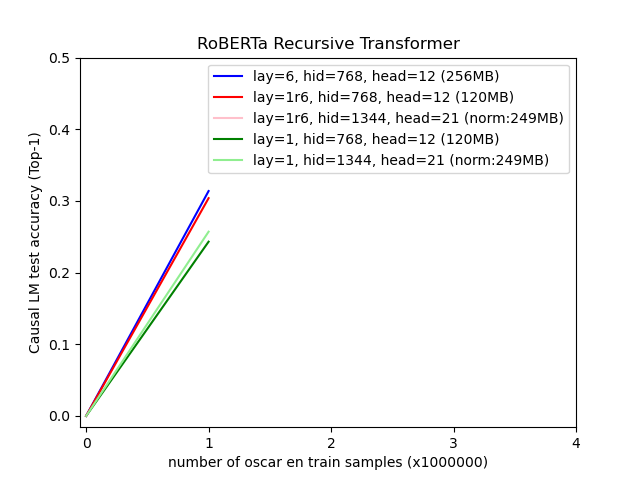
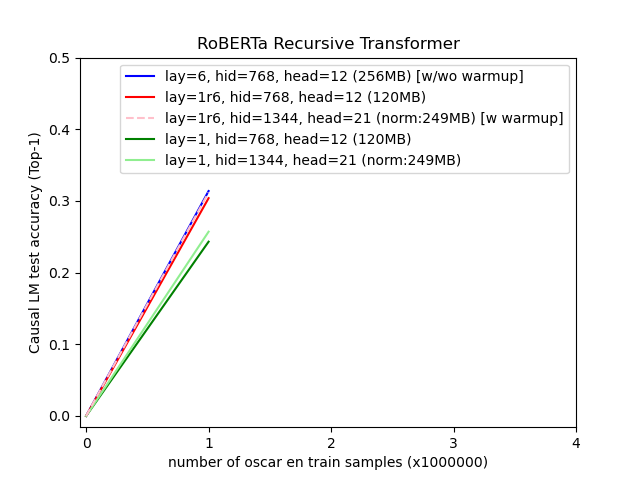
update graph positionEmbeddingTypeRelative/RobertaCausalRecursiveTransformer - add recursiveLayersNormaliseNumParameters ("norm") with useTrainWarmup patch ROBERTAptRecursive:trainDataset/testDataset:!legacyDataloaderCode1 - change numberOfDataFiles to datasetNumberOfDataFiles update ROBERTAptRecurs

diff --git a/ROBERTAptRecursive/ROBERTApt-main.py b/ROBERTAptRecursive/ROBERTApt-main.py
@@ -33,10 +33,15 @@ See RobertaForMaskedLM tutorial;
 from modeling_roberta_recursiveLayers import recursiveLayers
 
 useMaskedLM = False
+useTrainWarmup = False	#orig: False (may be required for recursiveLayersNormaliseNumParameters)
+if(useTrainWarmup):
+	warmupSteps = 4000
+	warmupLearningRateStart = 1e-7
+	warmupLearningRateIncrement = 2.5e-8
+	warmupLearningRateEnd = 1e-4	#==learningRate
 
 relativeFolderLocations = False
 
-legacyDataloaderCode0 = False
 legacyDataloaderCode1 = False
 legacyDataloaderCode2 = False	#wo patch SBNLPpt_dataTokeniser:getSampleEncodings to calculate labels = addLabelsPredictionMaskTokens (convert paddingTokenID [1] to labelPredictionMaskTokenID [-100])
 
@@ -64,7 +69,6 @@ if(recursiveLayers):
 		recursiveLayersNormaliseNumParametersAttentionHeads = True	#default: true
 		recursiveLayersNormaliseNumParametersIntermediate = True	#default: true	#normalise intermediateSize parameters also	
 		recursiveLayersNormaliseNumParametersIntermediateOnly = False	#default: false	#only normalise intermediary MLP layer	#requires recursiveLayersNormaliseNumParametersIntermediate
-		recursiveLayersNormaliseNumParametersDebug = False	#normalise hiddenLayerSize/numberOfAttentionHeads with respect to orig numberOfHiddenLayers instead of number of parameters (model size)
 else:
 	recursiveLayersNormaliseNumParameters = False	#mandatory
 
@@ -91,9 +95,7 @@ if(not usePretrainedModelDebug):
 	if(recursiveLayers):
 		#same model size irrespective of useSingleHiddenLayerDebug
 		if(recursiveLayersNormaliseNumParameters):
-			if(recursiveLayersNormaliseNumParametersDebug):
-				hiddenLayerSizeMultiplier = numberOfHiddenLayers	#model size = 1.7GB
-			elif(recursiveLayersNormaliseNumParametersIntermediateOnly):
+			if(recursiveLayersNormaliseNumParametersIntermediateOnly):
 				if(sharedLayerWeightsMLPonly):
 					hiddenLayerSizeMultiplier = 1
 					intermediateLayerSizeMultiplier = 6	#model size = 257MB	#hiddenLayerSize 768, intermediateSize 18432
@@ -112,10 +114,10 @@ if(not usePretrainedModelDebug):
 					intermediateLayerSizeMultiplier = hiddenLayerSizeMultiplier
 				else:
 					hiddenLayerSizeMultiplier = 2	#model size = ~255-263MB	#hiddenLayerSize 1536, numberOfAttentionHeads 24
-				
+			attentionHeadMultiplier = hiddenLayerSizeMultiplier
 			hiddenLayerSize = round(hiddenLayerSize*hiddenLayerSizeMultiplier)
 			if(recursiveLayersNormaliseNumParametersAttentionHeads):
-				numberOfAttentionHeads = round(numberOfAttentionHeads*hiddenLayerSizeMultiplier)	#or: round(numberOfAttentionHeads)
+				numberOfAttentionHeads = round(numberOfAttentionHeads*attentionHeadMultiplier)	#or: round(numberOfAttentionHeads)
 			if(recursiveLayersNormaliseNumParametersIntermediate):
 				intermediateSize = round(intermediateSize*intermediateLayerSizeMultiplier)
 			print("hiddenLayerSize = ", hiddenLayerSize)
@@ -140,28 +142,20 @@ if(not usePretrainedModelDebug):
 reserveValidationSet = True	#reserves a fraction of the data for validation
 trainSplitFraction = 0.9	#90% train data, 10% test data
 
-if(useMaskedLM):
+if(recursiveLayersNormaliseNumParameters):
 	batchSize = 8	#recursiveLayersNormaliseNumParameters uses ~16x more GPU RAM than !recursiveLayersNormaliseNumParameters, and ~2x more GPU RAM than !recursiveLayers
 	learningRate = 1e-4
 else:
-	if(recursiveLayersNormaliseNumParameters):
-		if(recursiveLayersNormaliseNumParametersDebug):
-			batchSize = 1
-			learningRate = 1.25e5 #1e-4/8=0.0000125
-		else:
-			batchSize = 8	#recursiveLayersNormaliseNumParameters uses ~16x more GPU RAM than !recursiveLayersNormaliseNumParameters, and ~2x more GPU RAM than !recursiveLayers
-			learningRate = 1e-4
-	else:
-		batchSize = 8  #default: 16	#8 and 16 train at approx same rate (16 uses more GPU ram)	#depends on GPU RAM	#with 12GB GPU RAM, batchSize max = 16
-		learningRate = 1e-4
-
+	batchSize = 8  #default: 16	#8 and 16 train at approx same rate (16 uses more GPU ram)	#depends on GPU RAM	#with 12GB GPU RAM, batchSize max = 16
+	learningRate = 1e-4
+		
 if(useSmallBatchSizeDebug):
 	batchSize = 1	#use small batch size to enable simultaneous execution (GPU ram limited) 
-#batchSize = 4
 
 numberOfSamplesPerDataFile = 10000
 numberOfSamplesPerDataFileLast = 423
 dataFileLastSampleIndex = 30423
+datasetNumberOfDataFiles = dataFileLastSampleIndex+1
 
 dataPreprocessedFileNameStart = "/text_"
 dataPreprocessedFileNameEnd = ".txt"
@@ -300,7 +294,7 @@ else:
 			if(str(dataFileIndex) == dataFileLastSampleIndex):
 				containsDataFileLastDocument = True
 		return containsDataFileLastDocument
-if(not legacyDataloaderCode0):
+if(not legacyDataloaderCode1):
 	def generateDataFileName(fileIndex):
 		fileName = dataFolder + dataPreprocessedFileNameStart + str(fileIndex) + dataPreprocessedFileNameEnd
 		return fileName
@@ -335,7 +329,7 @@ class DatasetHDD(torch.utils.data.Dataset):
 					
 		if(loadNextDataFile):
 			
-			if(legacyDataloaderCode0):
+			if(legacyDataloaderCode1):
 				path = self.paths[dataFileIndex]
 			else:
 				path = generateDataFileName(dataFileIndex)	#OLD: self.paths[dataFileIndex] - requires dataFolder to contain all dataFiles up to dataFileIndex
@@ -414,15 +408,14 @@ def trainDataset(tokenizer, paths):
 	model.to(device)
 
 	model.train()
-	optim = AdamW(model.parameters(), lr=learningRate)
-	
-	numberOfDataFiles = len(paths)
-
-	pathIndexMin = trainStartDataFile
-	if(reserveValidationSet and trainNumberOfDataFiles==-1):
-		pathIndexMax = int(numberOfDataFiles*trainSplitFraction)
+	if(useTrainWarmup):
+		learningRateCurrent = warmupLearningRateStart
 	else:
-		pathIndexMax = pathIndexMin+trainNumberOfDataFiles
+		learningRateCurrent = learningRate
+	optim = AdamW(model.parameters(), lr=learningRateCurrent)
+	
+	pathIndexMin = trainStartDataFile
+	pathIndexMax = pathIndexMin+trainNumberOfDataFiles
 	loader = createDataLoader(tokenizer, paths, trainNumberOfDataFiles, pathIndexMin, pathIndexMax)
 	
 	model.save_pretrained(modelFolderName)
@@ -444,6 +437,13 @@ def trainDataset(tokenizer, paths):
 			loss.backward()
 			optim.step()
 
+			if(useTrainWarmup):
+				if(epoch == trainStartEpoch):
+					if(batchIndex < warmupSteps):
+						learningRateCurrent += warmupLearningRateIncrement
+						for param_group in optim.param_groups:
+							param_group['lr'] = learningRateCurrent
+			
 			loop.set_description(f'Epoch {epoch}')
 			loop.set_postfix(batchIndex=batchIndex, loss=loss.item(), accuracy=accuracy)
 		
@@ -463,9 +463,11 @@ def testDataset(tokenizer, paths):
 
 	model.eval()
 	
-	numberOfDataFiles = len(paths)
-
-	pathIndexMin = int(numberOfDataFiles*trainSplitFraction)
+	if(legacyDataloaderCode1):
+		numberOfDataFiles = len(paths)
+		pathIndexMin = int(numberOfDataFiles*trainSplitFraction)
+	else:
+		pathIndexMin = int(datasetNumberOfDataFiles*trainSplitFraction)
 	pathIndexMax = pathIndexMin+testNumberOfDataFiles		
 	loader = createDataLoader(tokenizer, paths, testNumberOfDataFiles, pathIndexMin, pathIndexMax)
 		

diff --git a/SBNLPpt/SBNLPpt_globalDefs.py b/SBNLPpt/SBNLPpt_globalDefs.py
@@ -28,7 +28,13 @@ import math
 import pynvml
 
 useMaskedLM = False
-
+useTrainWarmup = False	#orig: False (may be required for recursiveLayersNormaliseNumParameters)
+if(useTrainWarmup):
+	warmupSteps = 4000
+	warmupLearningRateStart = 1e-7
+	warmupLearningRateIncrement = 2.5e-8
+	warmupLearningRateEnd = 1e-4	#==learningRate
+	
 legacyDataloaderCode2 = False	#wo patch SBNLPpt_dataTokeniser:getSampleEncodings to calculate labels = addLabelsPredictionMaskTokens (convert paddingTokenID [1] to labelPredictionMaskTokenID [-100])
 
 #recursive algorithm selection:
@@ -211,10 +217,6 @@ if(useAlgorithmTransformer):
 	
 	#if(recursiveLayers or transformerSuperblocksRecursive):
 	#	numberOfAttentionHeads = 1	#prevents recursion across different attention heads, nullifying precise recursion
-	recursiveLayersNormaliseNumParameters2 = False	#optional
-	if(recursiveLayersNormaliseNumParameters2):
-		numberOfAttentionHeads = 24
-		hiddenLayerSizeTransformer = 1536
 			
 	if(transformerAttentionHeadPermutations):
 		transformerAttentionHeadPermutationsIndependentOutput = True	#SelfOutput executes dense linear in groups of size numberOfAttentionHeads	#does not support sharedLayerWeightsOutput
@@ -411,7 +413,7 @@ if(useAlgorithmTransformer):
 	else:
 		officialRobertaBaseModel = False	#mandatory
 	
-useSmallDatasetDebug = True
+useSmallDatasetDebug = False
 useSingleHiddenLayerDebug = False
 usePretrainedModelDebug = False	#executes stateTestDataset only	#useAlgorithmTransformer only
 useSmallBatchSizeDebug = False
@@ -586,9 +588,7 @@ if(useAlgorithmTransformer):
 		if(recursiveLayers):
 			#same model size irrespective of useSingleHiddenLayerDebug
 			if(recursiveLayersNormaliseNumParameters):
-				if(recursiveLayersNormaliseNumParametersDebug):
-					hiddenLayerSizeMultiplier = numberOfHiddenLayers	#model size = 1.7GB
-				elif(recursiveLayersNormaliseNumParametersIntermediateOnly):
+				if(recursiveLayersNormaliseNumParametersIntermediateOnly):
 					if(sharedLayerWeightsMLPonly):
 						hiddenLayerSizeMultiplier = 1
 						intermediateLayerSizeMultiplier = 6	#model size = 257MB	#hiddenLayerSize 768, intermediateSize 18432
@@ -607,10 +607,10 @@ if(useAlgorithmTransformer):
 						intermediateLayerSizeMultiplier = hiddenLayerSizeMultiplier
 					else:
 						hiddenLayerSizeMultiplier = 2	#model size = ~255-263MB	#hiddenLayerSize 1536, numberOfAttentionHeads 24
-
+				attentionHeadMultiplier = hiddenLayerSizeMultiplier
 				hiddenLayerSize = round(hiddenLayerSize*hiddenLayerSizeMultiplier)
 				if(recursiveLayersNormaliseNumParametersAttentionHeads):
-					numberOfAttentionHeads = round(numberOfAttentionHeads*hiddenLayerSizeMultiplier)	#or: round(numberOfAttentionHeads)
+					numberOfAttentionHeads = round(numberOfAttentionHeads*attentionHeadMultiplier)	#or: round(numberOfAttentionHeads)
 				if(recursiveLayersNormaliseNumParametersIntermediate):
 					intermediateSize = round(intermediateSize*intermediateLayerSizeMultiplier)
 				print("hiddenLayerSize = ", hiddenLayerSize)

diff --git a/graph/recursiveLayers/trainingResults/positionEmbeddingTypeRelative/RobertaCausalRecursiveTransformer-loss.py b/graph/recursiveLayers/trainingResults/positionEmbeddingTypeRelative/RobertaCausalRecursiveTransformer-loss.py
@@ -2,25 +2,29 @@ import matplotlib.pyplot as plt
 import numpy as np
 
 x = np.array([0, 1, 2, 3, 4])
-y1 = np.array([4.0, 2.8682198713064193, np.nan, np.nan, np.nan])
-y2 = np.array([4.0, 2.521359804382324, np.nan, np.nan, np.nan])
-y3 = np.array([4.0, 2.5844951899254323, np.nan, np.nan, np.nan])
-y4 = np.array([4.0, np.nan, np.nan, np.nan, np.nan])
-y5 = np.array([4.0, 2.779218390097618, np.nan, np.nan, np.nan])
+y1 = np.array([6.0, 2.8682198713064193, np.nan, np.nan, np.nan])
+y2 = np.array([6.0, 2.521359804382324, np.nan, np.nan, np.nan])
+y3 = np.array([6.0, 2.5844951899254323, np.nan, np.nan, np.nan])
+y4 = np.array([6.0, np.nan, np.nan, np.nan, np.nan])
+y5 = np.array([6.0, 2.779218390097618, np.nan, np.nan, np.nan])
+y6 = np.array([6.0, 4.073932212734222, np.nan, np.nan, np.nan])
+y7 = np.array([6.0, 4.057497628517151, np.nan, np.nan, np.nan])
 
 l1, = plt.plot(x, y1, color='green', label='lay=1, hid=768, head=12 (120MB)')
-l2, = plt.plot(x, y2, color='blue', label='lay=6, hid=768, head=12 (256MB)')
+l2, = plt.plot(x, y2, color='blue', label='lay=6, hid=768, head=12 (256MB) [w/wo warmup]')
 l3, = plt.plot(x, y3, color='red', label='lay=1r6, hid=768, head=12 (120MB)')
 l4, = plt.plot(x, y4, color='pink', label='lay=1r6, hid=1344, head=21 (norm:249MB)')
 l5, = plt.plot(x, y5, color='lightgreen', label='lay=1, hid=1344, head=21 (norm:249MB)')
+l6, = plt.plot(x, y6, color='blue', label='lay=6, hid=768, head=12 (256MB) [w warmup]')	#, linestyle='dashed'
+l7, = plt.plot(x, y7, color='pink', label='lay=1r6, hid=1344, head=21 (norm:249MB) [w warmup]', linestyle='dashed')
 
 plt.xticks(np.arange(min(x), max(x)+0.5, 0.5))
-plt.yticks(np.arange(0, 4.0+0.1, 0.5))
+plt.yticks(np.arange(0, 6.0+0.1, 0.5))
 
 plt.xlabel("number of oscar en train samples (x1000000)")
-plt.ylabel("Causal LM test loss (Top-1)")
+plt.ylabel("Causal LM test loss")
 plt.title("RoBERTa Recursive Transformer")
 
-plt.legend(handles=[l2, l3, l4, l1, l5])
+plt.legend(handles=[l2, l3, l7, l1, l5])
 
 plt.show()

diff --git a/SBNLPpt/SBNLPpt_main.py b/SBNLPpt/SBNLPpt_main.py
@@ -101,6 +101,9 @@ def trainDataset(tokenizer, dataElements):
 		useMLM = True
 	else:
 		useMLM = False
+
+	if(useTrainWarmup):
+		learningRateCurrent = warmupLearningRateStart
 	
 	for epoch in range(trainStartEpoch, trainStartEpoch+trainNumberOfEpochs):
 		loader = SBNLPpt_data.createDataLoader(useMLM, tokenizer, dataElements, trainNumberOfDataFiles, pathIndexMin, pathIndexMax)	#required to reset dataloader and still support tqdm modification
@@ -111,7 +114,14 @@ def trainDataset(tokenizer, dataElements):
 		
 		for batchIndex, batch in enumerate(loop):			
 			loss, accuracy = trainOrTestBatchWrapper(True, batchIndex, batch, tokenizer, model, optim)
-			
+
+			if(useTrainWarmup):
+				if(epoch == trainStartEpoch):
+					if(batchIndex < warmupSteps):
+						learningRateCurrent += warmupLearningRateIncrement
+						for param_group in optim.param_groups:
+							param_group['lr'] = learningRateCurrent
+
 			if(printAccuracyRunningAverage):
 				(loss, accuracy) = (runningLoss, runningAccuracy) = (runningLoss/runningAverageBatches*(runningAverageBatches-1)+(loss/runningAverageBatches), runningAccuracy/runningAverageBatches*(runningAverageBatches-1)+(accuracy/runningAverageBatches))
 				
@@ -274,7 +284,11 @@ def prepareModelTrain(vocabSize, modelStoreIndex=None):
 		model.to(device)
 
 		model.train()
-		optim = AdamW(model.parameters(), lr=learningRate)
+		if(useTrainWarmup):
+			learningRateCurrent = warmupLearningRateStart
+		else:
+			learningRateCurrent = learningRate
+		optim = AdamW(model.parameters(), lr=learningRateCurrent)
 	
 	return model, optim
 

diff --git a/graph/recursiveLayers/trainingResults/positionEmbeddingTypeRelative/RobertaCausalRecursiveTransformer.py b/graph/recursiveLayers/trainingResults/positionEmbeddingTypeRelative/RobertaCausalRecursiveTransformer.py
@@ -7,12 +7,16 @@ y2 = np.array([0, 0.31380176396012305, np.nan, np.nan, np.nan])
 y3 = np.array([0, 0.30387136477828025, np.nan, np.nan, np.nan])
 y4 = np.array([0, np.nan, np.nan, np.nan, np.nan])
 y5 = np.array([0, 0.2571000176203251, np.nan, np.nan, np.nan])
+y6 = np.array([0, 0.310142416574955, np.nan, np.nan, np.nan])
+y7 = np.array([0, 0.31182531500339505, np.nan, np.nan, np.nan])
 
 l1, = plt.plot(x, y1, color='green', label='lay=1, hid=768, head=12 (120MB)')
-l2, = plt.plot(x, y2, color='blue', label='lay=6, hid=768, head=12 (256MB)')
+l2, = plt.plot(x, y2, color='blue', label='lay=6, hid=768, head=12 (256MB) [w/wo warmup]')
 l3, = plt.plot(x, y3, color='red', label='lay=1r6, hid=768, head=12 (120MB)')
 l4, = plt.plot(x, y4, color='pink', label='lay=1r6, hid=1344, head=21 (norm:249MB)')
 l5, = plt.plot(x, y5, color='lightgreen', label='lay=1, hid=1344, head=21 (norm:249MB)')
+#l6, = plt.plot(x, y6, color='blue', label='lay=6, hid=768, head=12 (256MB) [w/warmup]', linestyle='dashed')
+l7, = plt.plot(x, y7, color='pink', label='lay=1r6, hid=1344, head=21 (norm:249MB) [w warmup]', linestyle='dashed')
 
 plt.xticks(np.arange(min(x), max(x)+1, 1.0))
 plt.yticks(np.arange(0, 0.5+0.1, 0.1))
@@ -21,6 +25,6 @@ plt.xlabel("number of oscar en train samples (x1000000)")
 plt.ylabel("Causal LM test accuracy (Top-1)")
 plt.title("RoBERTa Recursive Transformer")
 
-plt.legend(handles=[l2, l3, l4, l1, l5])
+plt.legend(handles=[l2, l3, l7, l1, l5])
 
 plt.show()
